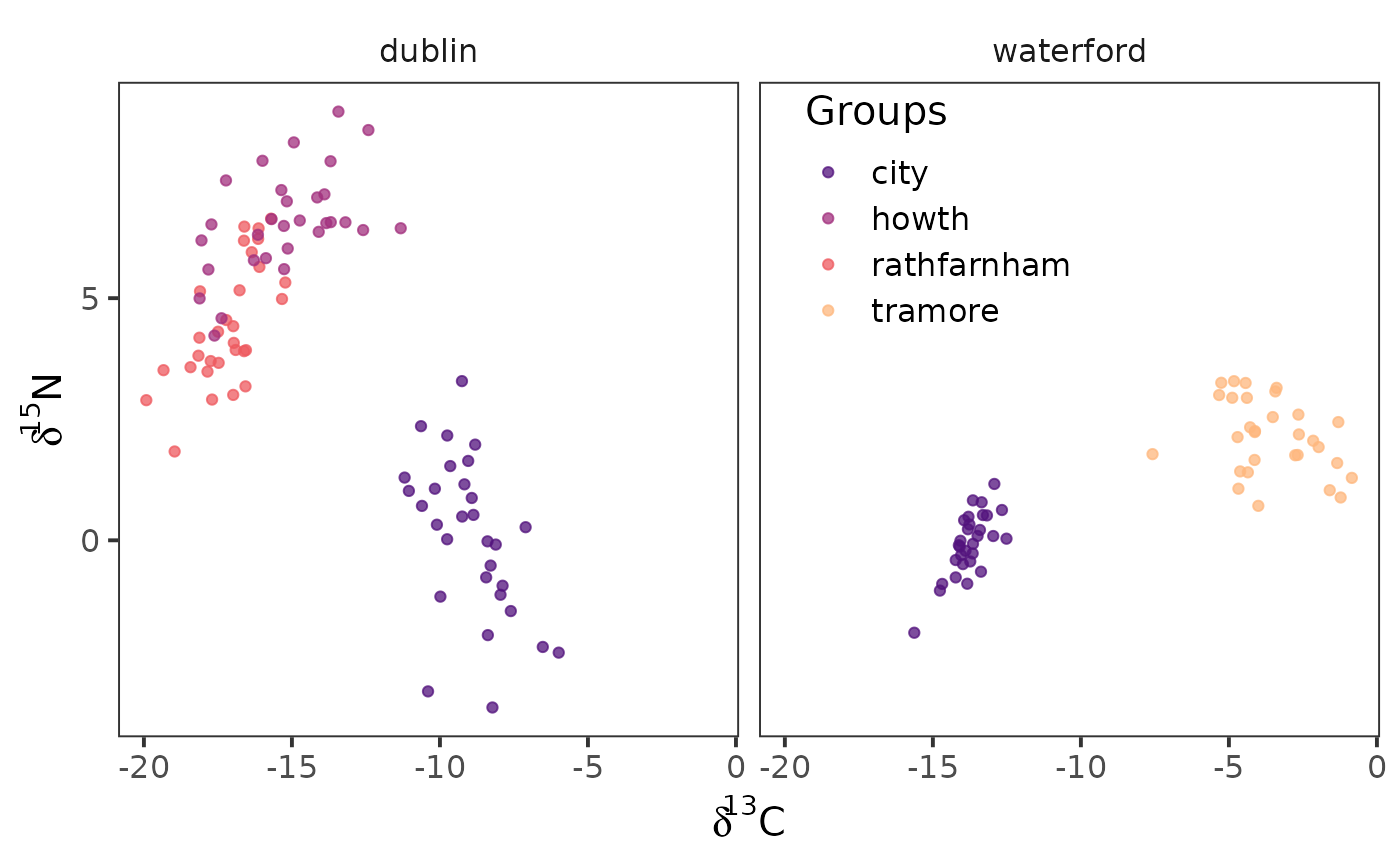
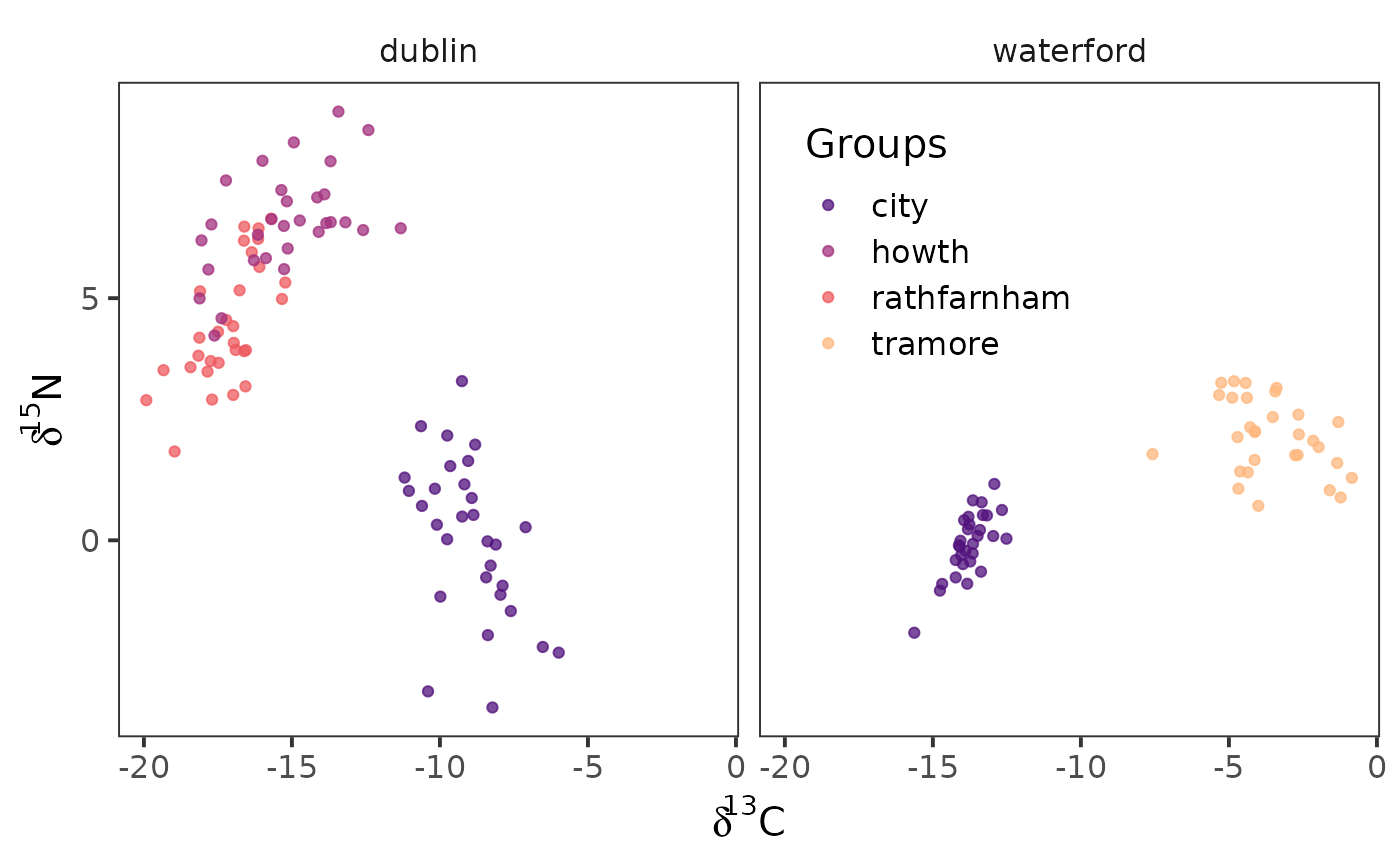
Deploying to gh-pages from @ benjaminhlina/nichetools@3840d0125f1a1c5862dfa0200a88bc509f50373f 🚀

Changed region(s): [[0.5836, 0.0936, 0.7679, 0.4058]]

diff --git a/articles/using-nichetools-with-the-package-SIBER.html b/articles/using-nichetools-with-the-package-SIBER.html
@@ -199,8 +199,7 @@ stucture.</p>
 <span>    strip.background <span class="op">=</span> <span class="fu"><a href="https://ggplot2.tidyverse.org/reference/element.html" class="external-link">element_blank</a></span><span class="op">(</span><span class="op">)</span>,</span>
 <span>    panel.grid <span class="op">=</span> <span class="fu"><a href="https://ggplot2.tidyverse.org/reference/element.html" class="external-link">element_blank</a></span><span class="op">(</span><span class="op">)</span>, </span>
 <span>    legend.position <span class="op">=</span> <span class="st">"inside"</span>,</span>
-<span>    legend.background <span class="op">=</span> <span class="fu"><a href="https://ggplot2.tidyverse.org/reference/element.html" class="external-link">element_blank</a></span><span class="op">(</span><span class="op">)</span>,</span>
-<span>    legend.position.inside <span class="op">=</span> <span class="fu"><a href="https://rdrr.io/r/base/c.html" class="external-link">c</a></span><span class="op">(</span><span class="fl">0.65</span>, <span class="fl">0.8</span><span class="op">)</span></span>
+<span>    legend.position.inside <span class="op">=</span> <span class="fu"><a href="https://rdrr.io/r/base/c.html" class="external-link">c</a></span><span class="op">(</span><span class="fl">0.65</span>, <span class="fl">0.75</span><span class="op">)</span></span>
 <span>  <span class="op">)</span> <span class="op">+</span> </span>
 <span>  <span class="fu"><a href="https://ggplot2.tidyverse.org/reference/labs.html" class="external-link">labs</a></span><span class="op">(</span></span>
 <span>    x <span class="op">=</span> <span class="fu"><a href="https://rdrr.io/r/base/expression.html" class="external-link">expression</a></span><span class="op">(</span><span class="fu"><a href="https://rdrr.io/r/base/paste.html" class="external-link">paste</a></span><span class="op">(</span><span class="va">delta</span><span class="op">^</span><span class="fl">13</span>,<span class="st">"C"</span><span class="op">)</span><span class="op">)</span>, </span>
@@ -307,9 +306,8 @@ are correct by plotting them with {ggplot2}</p>
 <span>  <span class="fu"><a href="https://ggplot2.tidyverse.org/reference/theme.html" class="external-link">theme</a></span><span class="op">(</span></span>
 <span>    strip.background <span class="op">=</span> <span class="fu"><a href="https://ggplot2.tidyverse.org/reference/element.html" class="external-link">element_blank</a></span><span class="op">(</span><span class="op">)</span>,</span>
 <span>    panel.grid <span class="op">=</span> <span class="fu"><a href="https://ggplot2.tidyverse.org/reference/element.html" class="external-link">element_blank</a></span><span class="op">(</span><span class="op">)</span>, </span>
-<span>    legend.background <span class="op">=</span> <span class="fu"><a href="https://ggplot2.tidyverse.org/reference/element.html" class="external-link">element_blank</a></span><span class="op">(</span><span class="op">)</span>,</span>
 <span>    legend.position <span class="op">=</span> <span class="st">"inside"</span>,</span>
-<span>    legend.position.inside <span class="op">=</span> <span class="fu"><a href="https://rdrr.io/r/base/c.html" class="external-link">c</a></span><span class="op">(</span><span class="fl">0.65</span>, <span class="fl">0.8</span><span class="op">)</span></span>
+<span>    legend.position.inside <span class="op">=</span> <span class="fu"><a href="https://rdrr.io/r/base/c.html" class="external-link">c</a></span><span class="op">(</span><span class="fl">0.65</span>, <span class="fl">0.75</span><span class="op">)</span></span>
 <span>  <span class="op">)</span> <span class="op">+</span> </span>
 <span>  <span class="fu"><a href="https://ggplot2.tidyverse.org/reference/labs.html" class="external-link">labs</a></span><span class="op">(</span></span>
 <span>    x <span class="op">=</span> <span class="fu"><a href="https://rdrr.io/r/base/expression.html" class="external-link">expression</a></span><span class="op">(</span><span class="fu"><a href="https://rdrr.io/r/base/paste.html" class="external-link">paste</a></span><span class="op">(</span><span class="va">delta</span><span class="op">^</span><span class="fl">13</span>,<span class="st">"C"</span><span class="op">)</span><span class="op">)</span>, </span>
